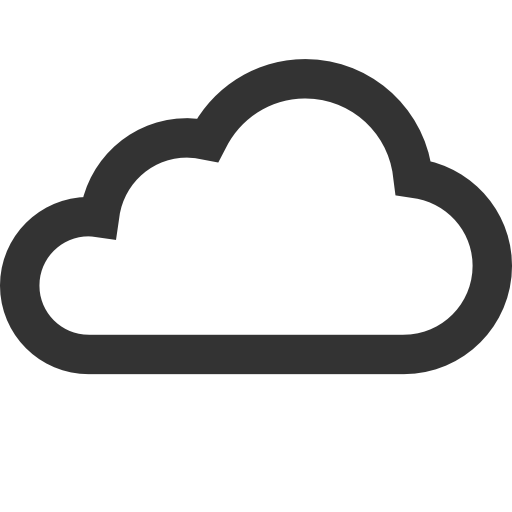
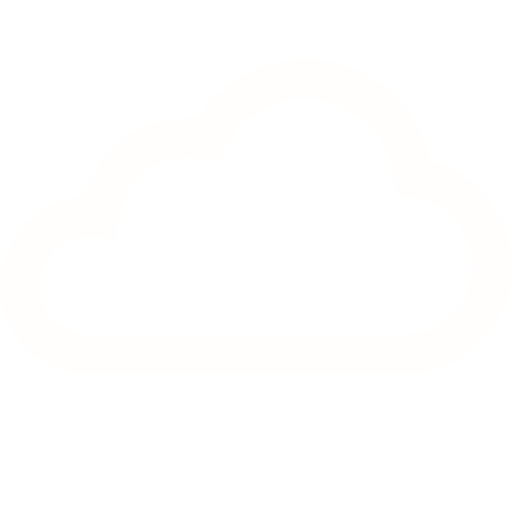
Improving Landing Page a lot

Changed region(s): [[0.0, 0.0938, 1.0, 0.75]]

diff --git a/index.html b/index.html
@@ -40,19 +40,7 @@
 </div>
     
     
-    <div class="welcome">
-  <div class="container">
-    <p>APPLYING <strong>LAWS</strong> OF</p>
-    <p class="slogan">SIMPLICITY</p>
-    <p class="subslogan">is not <strong>SIMPLE</strong> at all !</p>        
-  </div>  
-</div>
-
-    
-    
-    <div class="content">
-      <div class="container">
-        <div id="home">
+    <div id="home">
   <div class="row">
     <div class="md-col-12">
       <h1>A BLOG <small>about</small></h1>
@@ -60,21 +48,25 @@
     </div>
   </div>
   <div class="row">
-    <div class="col-sm-4">
+    <div class="col-md-4">
       <img src="/img/topic/code.png">
       <h3>Programming</h3>
     </div>
-    <div class="col-sm-4">
-      <img src="/img/topic/cloud.png">
+    <div class="col-md-4">
+      <img src="/img/topic/cloud.png" class="hidden-xs hidden-sm">
       <h3>Cloud Computing</h3>
     </div>
-    <div class="col-sm-4">
-      <img src="/img/topic/rocket.png">
+    <div class="col-md-4">
+      <img src="/img/topic/rocket.png" class="hidden-xs hidden-sm">
       <h3>Web Information Systems</h3>
     </div> 
   </div>
+</div>
     
-  <div class="row">
+    
+    <div class="content">
+      <div class="container">
+          <div class="row">
     <div class="col-md-12">
       <h2>Posts</h2>
       <div class="posts">
@@ -139,10 +131,13 @@
 	<div class="container">
 	  <div class="row">
         	  <div class="col-md-12">
-      	  	  <div class="links">
-	      	  	<a href="/about.html">About</a> &bullet;
-      	  		<a href="/disclosure.html">Disclosure</a>
-      		  </div>
+		  	  <div class="links">
+	      	  	Hosted for free by<br />
+	      	  	<a href="http://pages.github.com/"><img src="/img/github-pages.svg"></a>
+      	  	  	<br />
+      	  	  	<a href="/about.html">About</a> &bullet;
+      	  	  	<a href="/disclosure.html">Disclosure</a>
+  	  		  </div>
       	  </div>
         </div>
    </div>

diff --git a/css/customize.css b/css/customize.css
@@ -42,33 +42,37 @@ h3 { font-size: 3rem; }
 }
 
 /* HOME PAGE */
+
+#home {
+	background-color: #ad0a22;
+	color: rgba(255, 255, 255, 0.75);
+}
+
+#home a {
+	font-weight: bold;
+	font-style: italic;
+}
+
 #home .row {
 	text-align: center;
-	margin-top: 50px;
-	margin-bottom: 100px;
+	padding-top: 50px;
 }
 
 #home .row h1 {
 	font-size: 7.5rem;
 }
 
+#home h1 small, #home a {
+	color: rgba(0, 0, 0, 0.25);
+}
+
 #home img {
+	opacity: 0.75;
 	width: 50%;
 }
 
-#home .socialsites {
-	padding: 10px;
-	background: rgba(0, 0, 0, 0.9);
-	text-align: center;
-}
-
-#home .socialsites img {
-	width: 32px;
-	opacity: 0.5;
-}
-
-#home .socialsites img:hover {
-	opacity: 1.0;
+#home .col-md-4:last-child {
+	padding-bottom: 50px;
 }
 
 /* ABOUT PAGE */
@@ -113,45 +117,6 @@ h3 { font-size: 3rem; }
 
 .bibliography li:first-child {
 	border-top: 2px solid rgba(0, 0, 0, 0.66);
-}
-
-
-/* WELCOME SECTION */
-.welcome {
-	font-family: 'Raleway', sans-serif;
-	font-weight: 100;
-	border-top: 5px solid #ad0a22;
-	padding: 50px;
-	width: 100%;
-	height: 350px;
-	background-color: #ad0a22;
-	color: #fff;
-	padding-top: 115px;
-}
-.welcome p {
-	width: 200px;
-	text-align: center;
-	margin-left: auto;
-	margin-right: auto;		
-}
-.welcome p.slogan {
-	font-size: 3.0rem;
-	margin-left: auto;
-	margin-right: auto;
-	border: 1px solid white;
-	padding: 10px;
-	border-radius: 10px;
-	text-align: center;
-}
-.welcome p.subslogan {
-	width: 100%;
-	margin-left: auto;
-	margin-right: auto;
-	font-family: 'Indie Flower', serif;
-	font-size: 2.5rem;
-	transform: rotate(355deg);
-	-ms-transform: rotate(355deg);
-	-webkit-transform: rotate(355deg);
 }
 
 /* CENTRAL CONTENT AREA */
@@ -213,4 +178,8 @@ h3 { font-size: 3rem; }
 
 .footer .links a {
 	color: rgba(0, 0, 0, 0.5);
+}
+
+.footer .links img {
+	opacity: 0.5;
 }

diff --git a/disclosure.html b/disclosure.html
@@ -43,7 +43,9 @@
     
     <div class="content">
       <div class="container">
-        <h2>Legal Disclosure <small>german law</small></h2>
+        <div class="row">
+<div class="col-md-12">
+<h2>Legal Disclosure <small>german law</small></h2>
 <p>
 Information in accordance with section 5 TMG (Telemediengesetz)<br/>
 Nane Kratzke<br/>
@@ -82,6 +84,8 @@ M&ouml;nkhofer Weg 239<br/>
 <p>
 	<em>Reference:</em> <a href="http://www.twigg.de">http://www.twigg.de/</a>
 </p>
+</div>
+</div>
       </div>
     </div>
     
@@ -129,10 +133,13 @@ M&ouml;nkhofer Weg 239<br/>
 	<div class="container">
 	  <div class="row">
         	  <div class="col-md-12">
-      	  	  <div class="links">
-	      	  	<a href="/about.html">About</a> &bullet;
-      	  		<a href="/disclosure.html">Disclosure</a>
-      		  </div>
+		  	  <div class="links">
+	      	  	Hosted for free by<br />
+	      	  	<a href="http://pages.github.com/"><img src="/img/github-pages.svg"></a>
+      	  	  	<br />
+      	  	  	<a href="/about.html">About</a> &bullet;
+      	  	  	<a href="/disclosure.html">Disclosure</a>
+  	  		  </div>
       	  </div>
         </div>
    </div>

diff --git a/jekyll/update/2014/02/05/welcome-to-jekyll.html b/jekyll/update/2014/02/05/welcome-to-jekyll.html
@@ -114,10 +114,13 @@ To add new posts, simply add a file in the <code>_posts</code> directory that fo
 	<div class="container">
 	  <div class="row">
         	  <div class="col-md-12">
-      	  	  <div class="links">
-	      	  	<a href="/about.html">About</a> &bullet;
-      	  		<a href="/disclosure.html">Disclosure</a>
-      		  </div>
+		  	  <div class="links">
+	      	  	Hosted for free by<br />
+	      	  	<a href="http://pages.github.com/"><img src="/img/github-pages.svg"></a>
+      	  	  	<br />
+      	  	  	<a href="/about.html">About</a> &bullet;
+      	  	  	<a href="/disclosure.html">Disclosure</a>
+  	  		  </div>
       	  </div>
         </div>
    </div>

diff --git a/about.html b/about.html
@@ -172,10 +172,13 @@
 	<div class="container">
 	  <div class="row">
         	  <div class="col-md-12">
-      	  	  <div class="links">
-	      	  	<a href="/about.html">About</a> &bullet;
-      	  		<a href="/disclosure.html">Disclosure</a>
-      		  </div>
+		  	  <div class="links">
+	      	  	Hosted for free by<br />
+	      	  	<a href="http://pages.github.com/"><img src="/img/github-pages.svg"></a>
+      	  	  	<br />
+      	  	  	<a href="/about.html">About</a> &bullet;
+      	  	  	<a href="/disclosure.html">Disclosure</a>
+  	  		  </div>
       	  </div>
         </div>
    </div>

diff --git a/programming/dart/2014/02/09/my-first-dart-post.html b/programming/dart/2014/02/09/my-first-dart-post.html
@@ -107,10 +107,13 @@
 	<div class="container">
 	  <div class="row">
         	  <div class="col-md-12">
-      	  	  <div class="links">
-	      	  	<a href="/about.html">About</a> &bullet;
-      	  		<a href="/disclosure.html">Disclosure</a>
-      		  </div>
+		  	  <div class="links">
+	      	  	Hosted for free by<br />
+	      	  	<a href="http://pages.github.com/"><img src="/img/github-pages.svg"></a>
+      	  	  	<br />
+      	  	  	<a href="/about.html">About</a> &bullet;
+      	  	  	<a href="/disclosure.html">Disclosure</a>
+  	  		  </div>
       	  </div>
         </div>
    </div>

diff --git a/publications.html b/publications.html
@@ -131,10 +131,13 @@
 	<div class="container">
 	  <div class="row">
         	  <div class="col-md-12">
-      	  	  <div class="links">
-	      	  	<a href="/about.html">About</a> &bullet;
-      	  		<a href="/disclosure.html">Disclosure</a>
-      		  </div>
+		  	  <div class="links">
+	      	  	Hosted for free by<br />
+	      	  	<a href="http://pages.github.com/"><img src="/img/github-pages.svg"></a>
+      	  	  	<br />
+      	  	  	<a href="/about.html">About</a> &bullet;
+      	  	  	<a href="/disclosure.html">Disclosure</a>
+  	  		  </div>
       	  </div>
         </div>
    </div>
